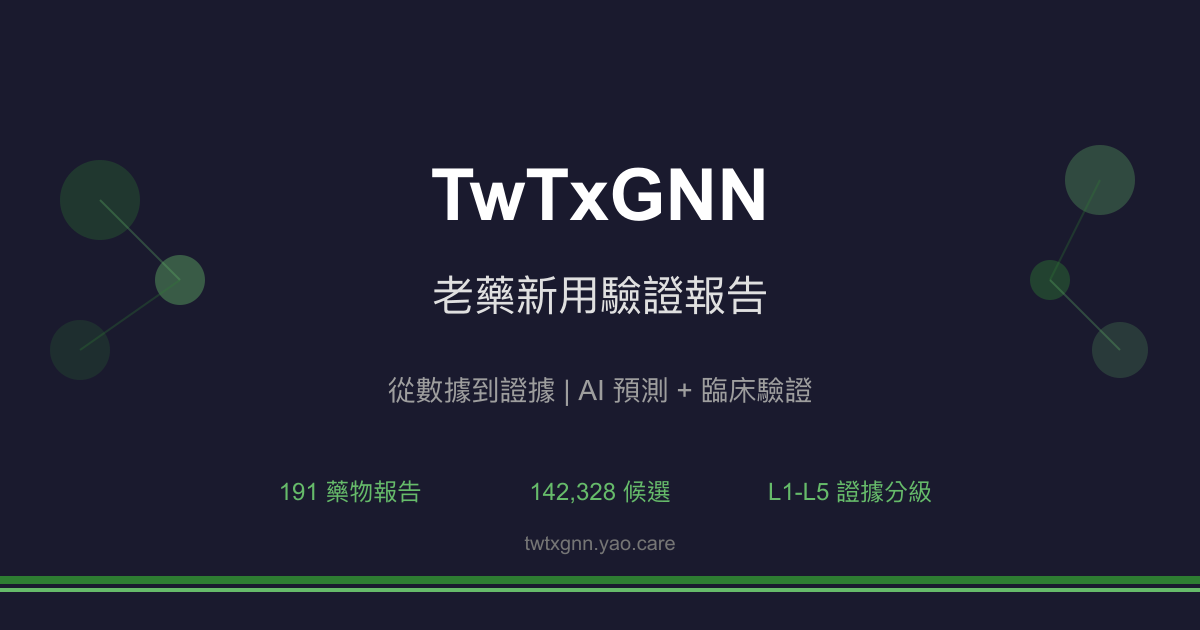
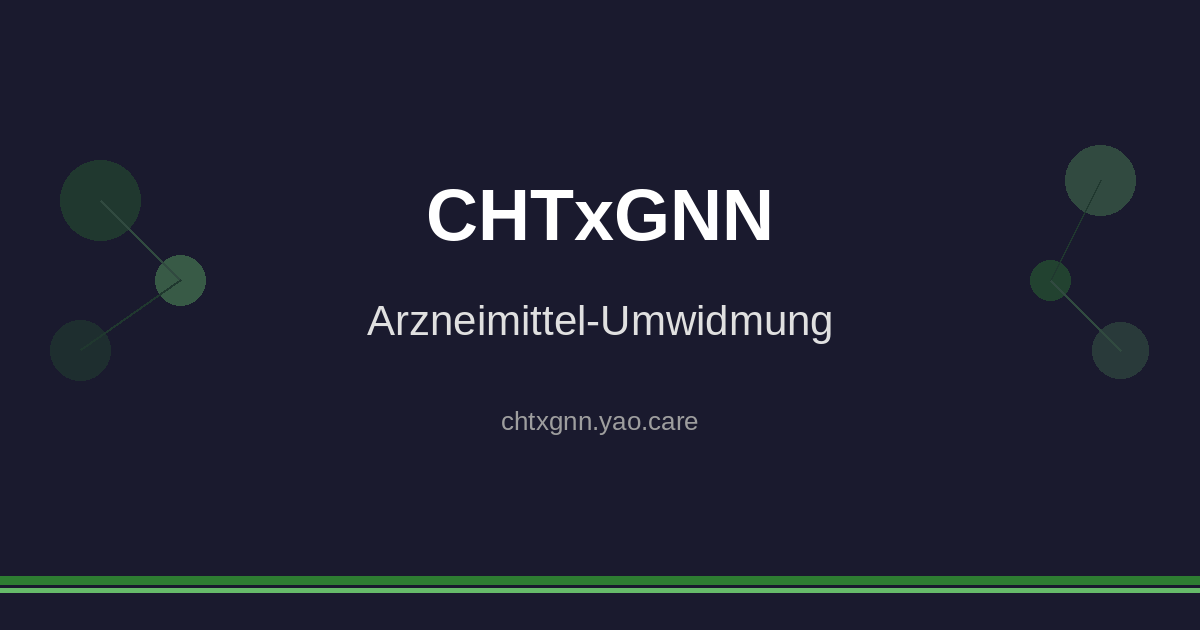
fix: 移除照抄 TwTxGNN 的內容（og 圖、分享按鈕）
- og-default.png／svg：原檔是 TwTxGNN 的圖（TwTxGNN、191 藥物報告、142,328 候選、twtxgnn.yao.care）。
  改由母 repo .claude/gen_og_image.py 產生本站圖：只放站名、網域、本站語言的一行副標（取自 _config.yml title），不放數字。
- assets/images/README.md：設計要求裡的「TwTxGNN」與標語改成本站實際內容，註明產生方式。
- _includes/social-share.html：X hashtag 與 mailto 主旨的 TwTxGNN → CHTxGNN；推文與郵件內文原為中文「老藥新用驗證報告」，按鈕文字原為英文，改成本站語言。（此 include 目前沒有頁面引用，先修正以免日後啟用時帶出 Tw 字樣。）

Claude-Session: https://claude.ai/code/session_013aGXmRzC9hmsD5XtZ9FusM

diff --git a/docs/_includes/social-share.html b/docs/_includes/social-share.html
@@ -1,14 +1,14 @@
-<!-- 學術分享按鈕 -->
+<!-- Share buttons -->
 <div class="social-share" style="margin: 2rem 0; padding: 1.25rem; background: #f8f9fa; border-radius: 8px; border: 1px solid #e0e0e0;">
-  <strong style="display: block; margin-bottom: 0.75rem; color: #333;">Share this report:</strong>
+  <strong style="display: block; margin-bottom: 0.75rem; color: #333;">Diesen Bericht teilen:</strong>
   <div style="display: flex; gap: 0.5rem; flex-wrap: wrap;">
     <!-- Twitter/X -->
-    <a href="https://twitter.com/intent/tweet?text={{ page.title | url_encode }}%20%E8%80%81%E8%97%A5%E6%96%B0%E7%94%A8%E9%A9%97%E8%AD%89%E5%A0%B1%E5%91%8A&url={{ page.url | absolute_url | url_encode }}&hashtags=DrugRepurposing,TwTxGNN"
+    <a href="https://twitter.com/intent/tweet?text={{ page.title | url_encode }}%20Bericht%20zur%20Arzneimittel-Umwidmung&url={{ page.url | absolute_url | url_encode }}&hashtags=DrugRepurposing,CHTxGNN"
        target="_blank" rel="noopener noreferrer"
        style="display: inline-flex; align-items: center; gap: 0.375rem; padding: 0.5rem 1rem; background: #000; color: white; text-decoration: none; border-radius: 6px; font-size: 0.9rem; font-weight: 500; transition: opacity 0.2s;"
        onmouseover="this.style.opacity='0.8'" onmouseout="this.style.opacity='1'">
       <svg width="16" height="16" fill="currentColor" viewBox="0 0 24 24"><path d="M18.244 2.25h3.308l-7.227 8.26 8.502 11.24H16.17l-5.214-6.817L4.99 21.75H1.68l7.73-8.835L1.254 2.25H8.08l4.713 6.231zm-1.161 17.52h1.833L7.084 4.126H5.117z"/></svg>
-      Share on X
+      Auf X teilen
     </a>
 
     <!-- LinkedIn -->
@@ -20,16 +20,16 @@
       LinkedIn
     </a>
 
-    <!-- 複製連結 -->
+    <!-- Copy link -->
     <button onclick="copyReportLink(this)"
             style="display: inline-flex; align-items: center; gap: 0.375rem; padding: 0.5rem 1rem; background: #6c757d; color: white; border: none; border-radius: 6px; cursor: pointer; font-size: 0.9rem; font-weight: 500; transition: all 0.2s;"
             onmouseover="this.style.background='#5a6268'" onmouseout="this.style.background='#6c757d'">
       <svg width="16" height="16" fill="currentColor" viewBox="0 0 24 24"><path d="M16 1H4c-1.1 0-2 .9-2 2v14h2V3h12V1zm3 4H8c-1.1 0-2 .9-2 2v14c0 1.1.9 2 2 2h11c1.1 0 2-.9 2-2V7c0-1.1-.9-2-2-2zm0 16H8V7h11v14z"/></svg>
-      <span>Copy link</span>
+      <span>Link kopieren</span>
     </button>
 
     <!-- Email -->
-    <a href="mailto:?subject={{ page.title | url_encode }}%20-%20TwTxGNN&body=%E6%8E%A8%E8%96%A6%E9%80%99%E4%BB%BD%E8%80%81%E8%97%A5%E6%96%B0%E7%94%A8%E9%A9%97%E8%AD%89%E5%A0%B1%E5%91%8A%EF%BC%9A%0A%0A{{ page.url | absolute_url | url_encode }}"
+    <a href="mailto:?subject={{ page.title | url_encode }}%20-%20CHTxGNN&body=Empfehlung%20%E2%80%93%20Bericht%20zur%20Arzneimittel-Umwidmung%3A%0A%0A{{ page.url | absolute_url | url_encode }}"
        style="display: inline-flex; align-items: center; gap: 0.375rem; padding: 0.5rem 1rem; background: #EA4335; color: white; text-decoration: none; border-radius: 6px; font-size: 0.9rem; font-weight: 500; transition: opacity 0.2s;"
        onmouseover="this.style.opacity='0.8'" onmouseout="this.style.opacity='1'">
       <svg width="16" height="16" fill="currentColor" viewBox="0 0 24 24"><path d="M20 4H4c-1.1 0-1.99.9-1.99 2L2 18c0 1.1.9 2 2 2h16c1.1 0 2-.9 2-2V6c0-1.1-.9-2-2-2zm0 4l-8 5-8-5V6l8 5 8-5v2z"/></svg>
@@ -44,7 +44,7 @@ function copyReportLink(btn) {
   navigator.clipboard.writeText(url).then(() => {
     const span = btn.querySelector('span');
     const originalText = span.textContent;
-    span.textContent = 'Copied!';
+    span.textContent = 'Kopiert!';
     btn.style.background = '#28a745';
     setTimeout(() => {
       span.textContent = originalText;

diff --git a/docs/assets/images/README.md b/docs/assets/images/README.md
@@ -15,11 +15,15 @@ nav_exclude: true
 
 ### 設計要求
 
-1. 包含網站名稱「TwTxGNN」
-2. 包含標語「老藥新用，從數據到證據」
-3. 簡潔、專業風格
-4. 背景純色或簡單圖案
+1. 包含網站名稱「CHTxGNN」與網域
+2. 包含該站語言的一行副標（取自 _config.yml 的 title）
+3. 不放藥物數、候選數等數字（會過期）
+4. 簡潔、專業風格
 5. 適合在社群媒體預覽顯示
+
+### 產生方式
+
+由 TxGNN 母 repo 的 `.claude/gen_og_image.py` 產生（同時輸出 og-default.svg）。
 
 ### 使用位置
 
